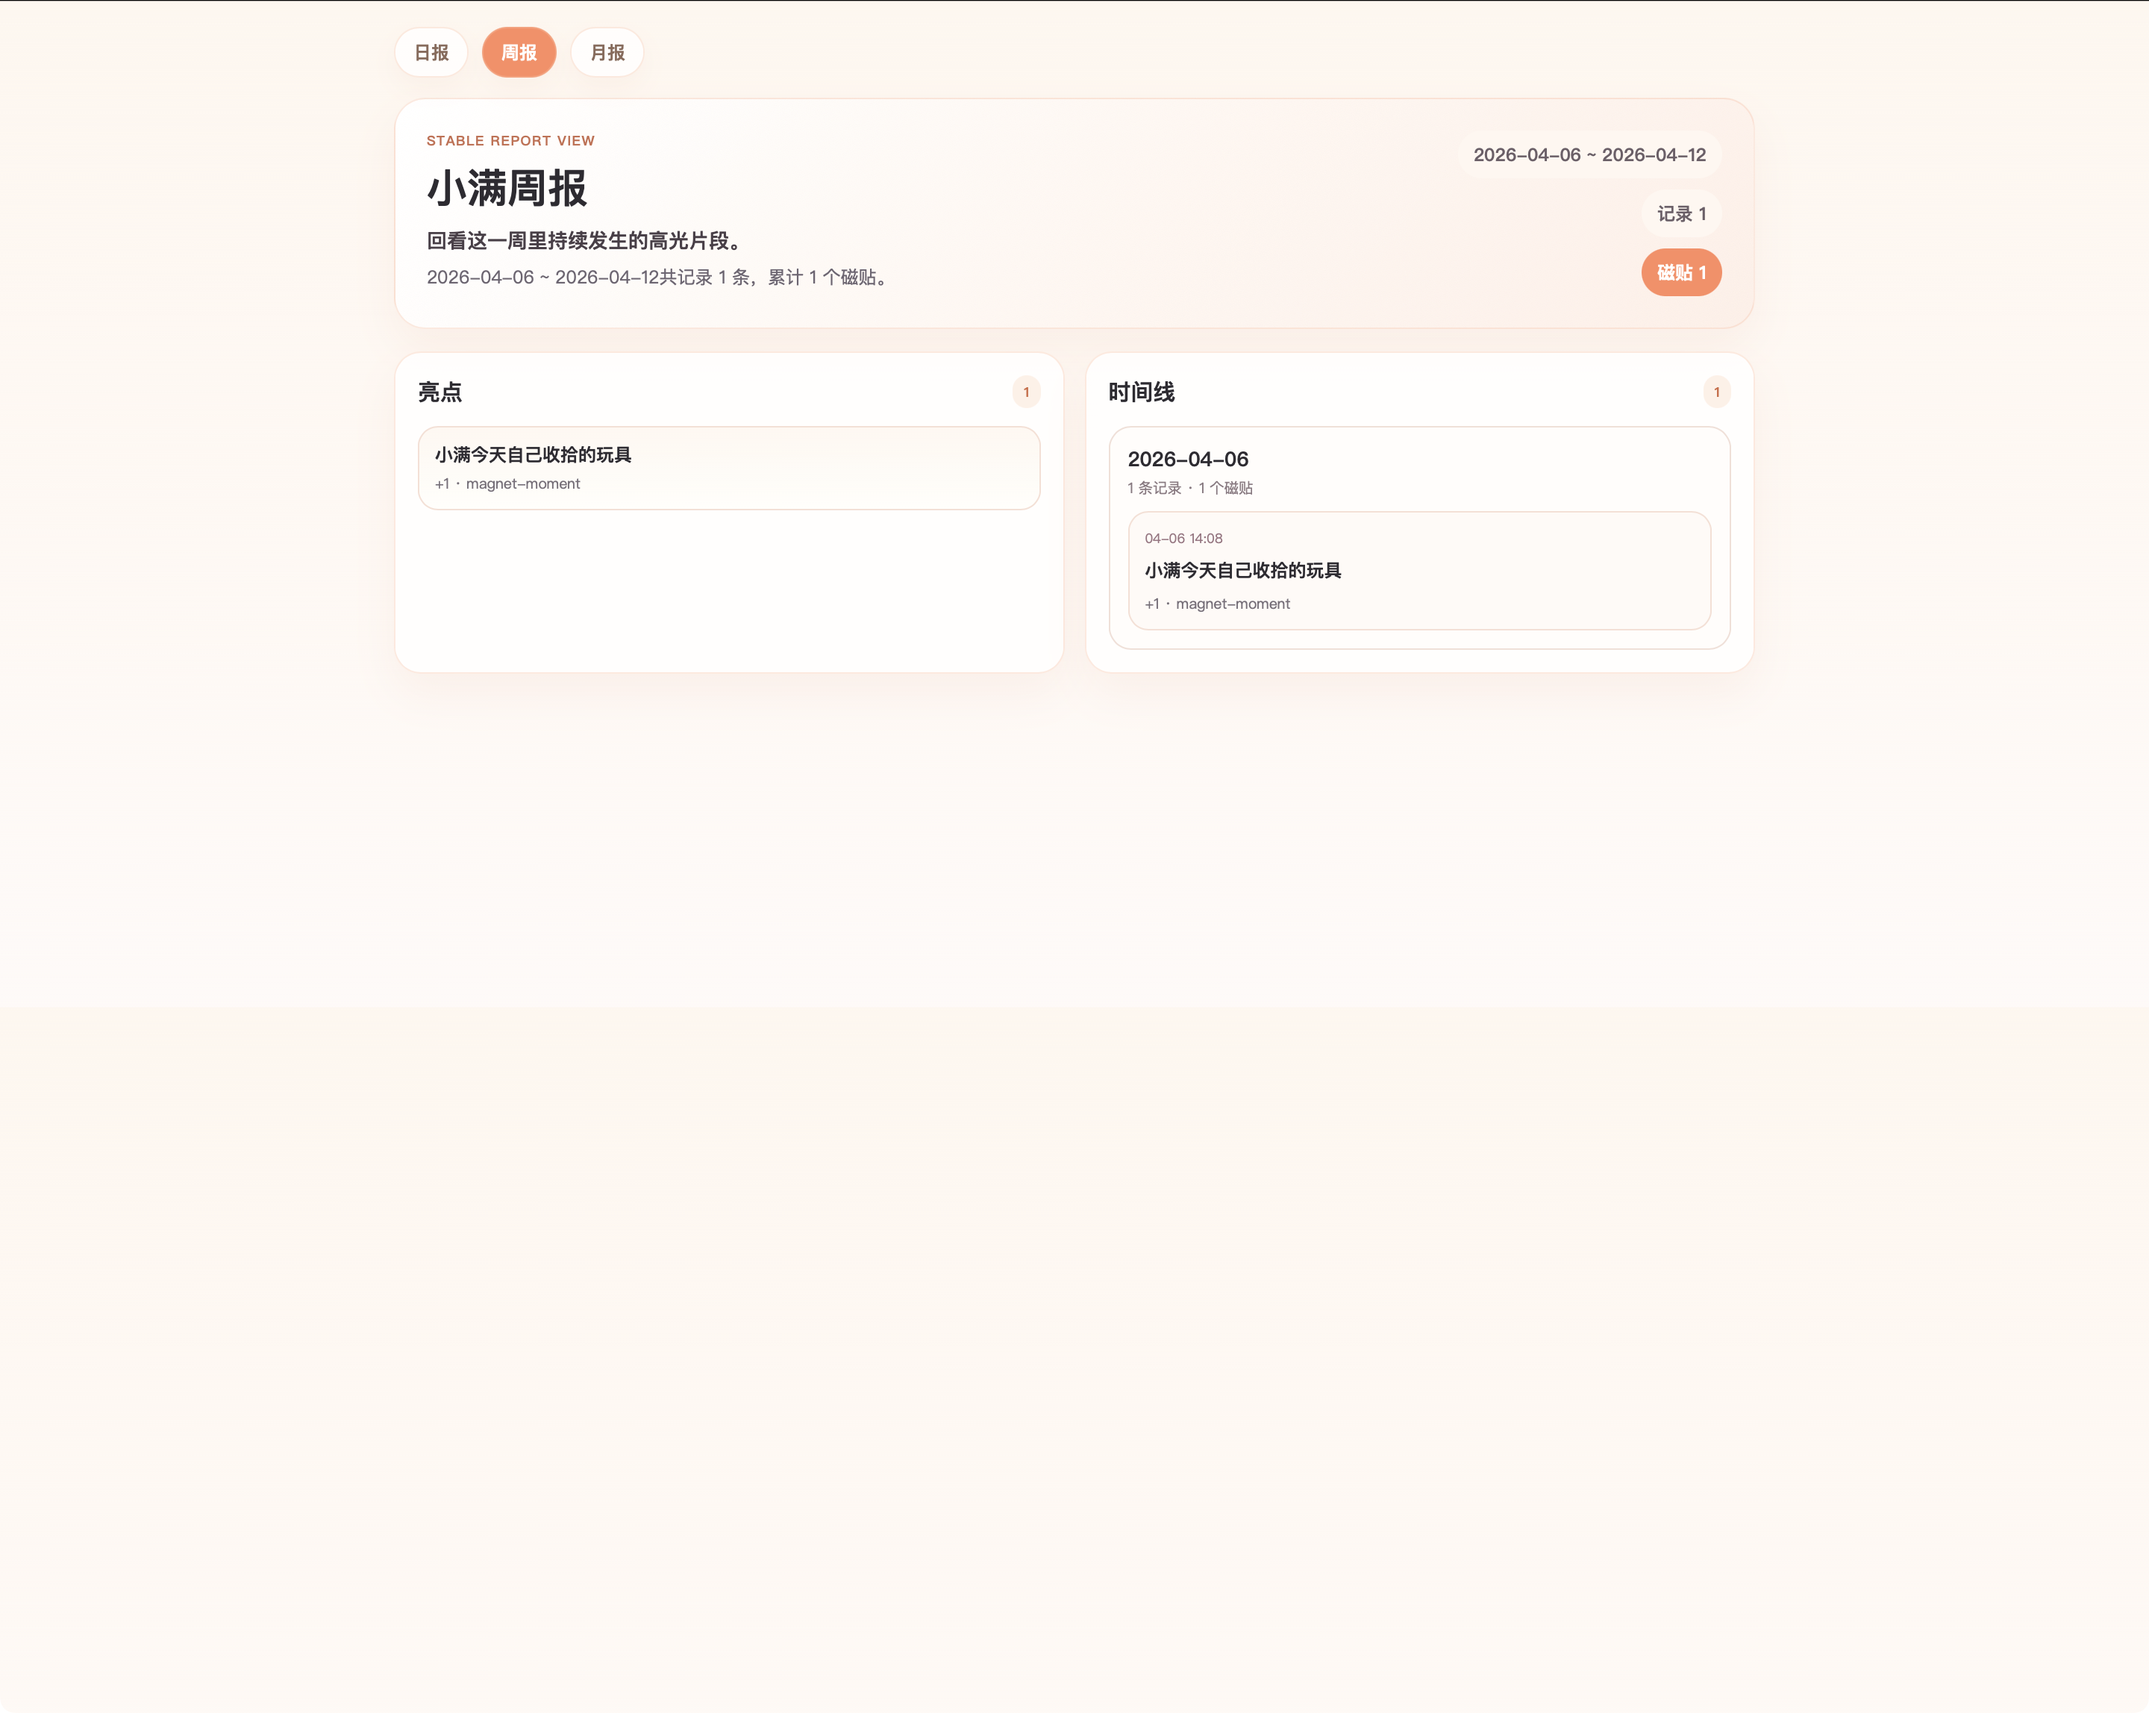
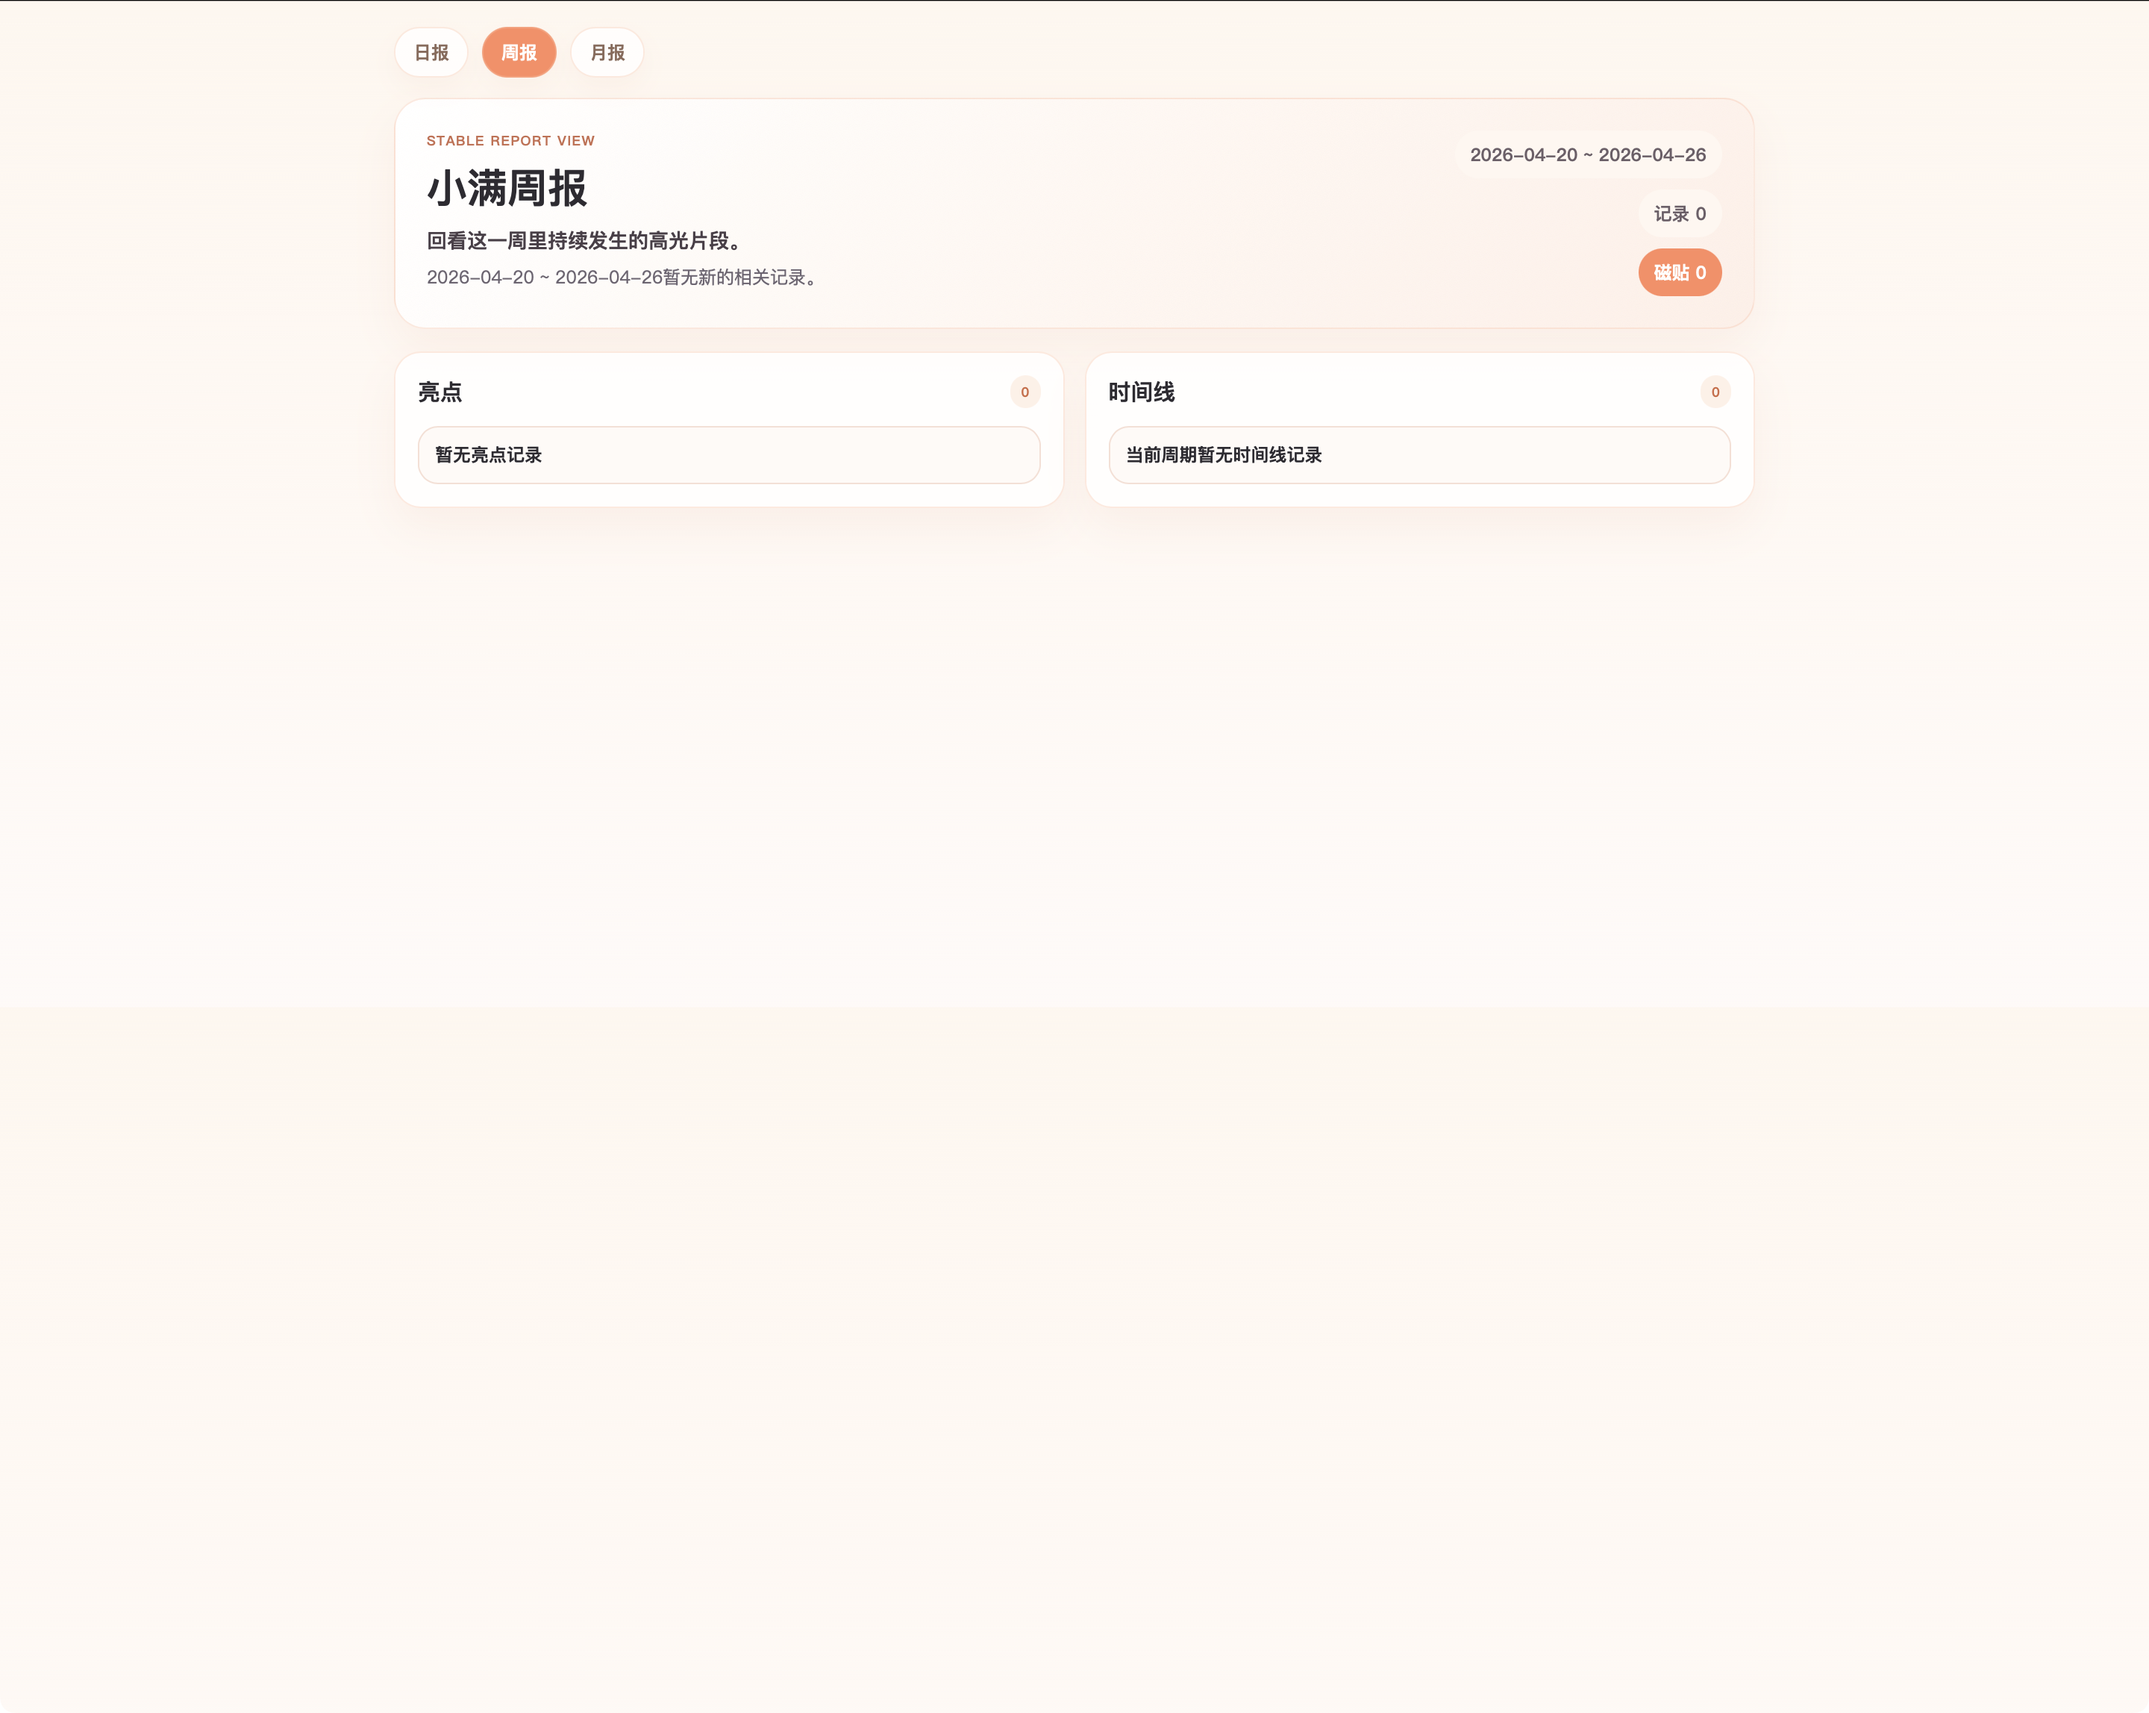
add notes

diff --git a/projects/xiaoman-growth-journal/data/weekly_summary.md b/projects/xiaoman-growth-journal/data/weekly_summary.md
@@ -1,11 +1,11 @@
 # 小满周报
 
-- 时间范围：2026-04-13 ~ 2026-04-19
+- 时间范围：2026-04-20 ~ 2026-04-26
 - 记录数：0
 - 磁贴总计：0
 
 ## 摘要
-2026-04-13 ~ 2026-04-19暂无新的相关记录。
+2026-04-20 ~ 2026-04-26暂无新的相关记录。
 
 ## 亮点
 - 暂无亮点记录

diff --git a/projects/xiaoman-growth-journal/data/daily_summary.md b/projects/xiaoman-growth-journal/data/daily_summary.md
@@ -1,11 +1,11 @@
 # 小满日报
 
-- 时间范围：2026-04-19
+- 时间范围：2026-04-24
 - 记录数：0
 - 磁贴总计：0
 
 ## 摘要
-2026-04-19暂无新的相关记录。
+2026-04-24暂无新的相关记录。
 
 ## 亮点
 - 暂无亮点记录
